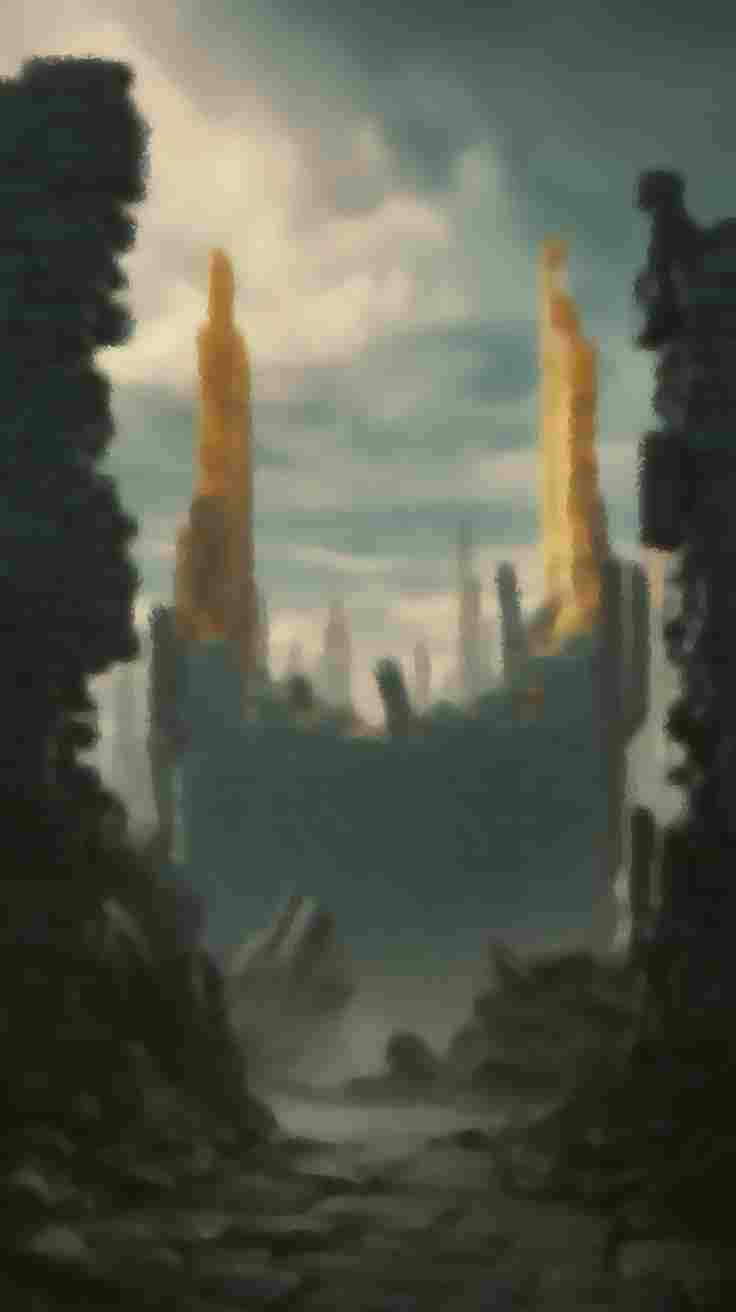
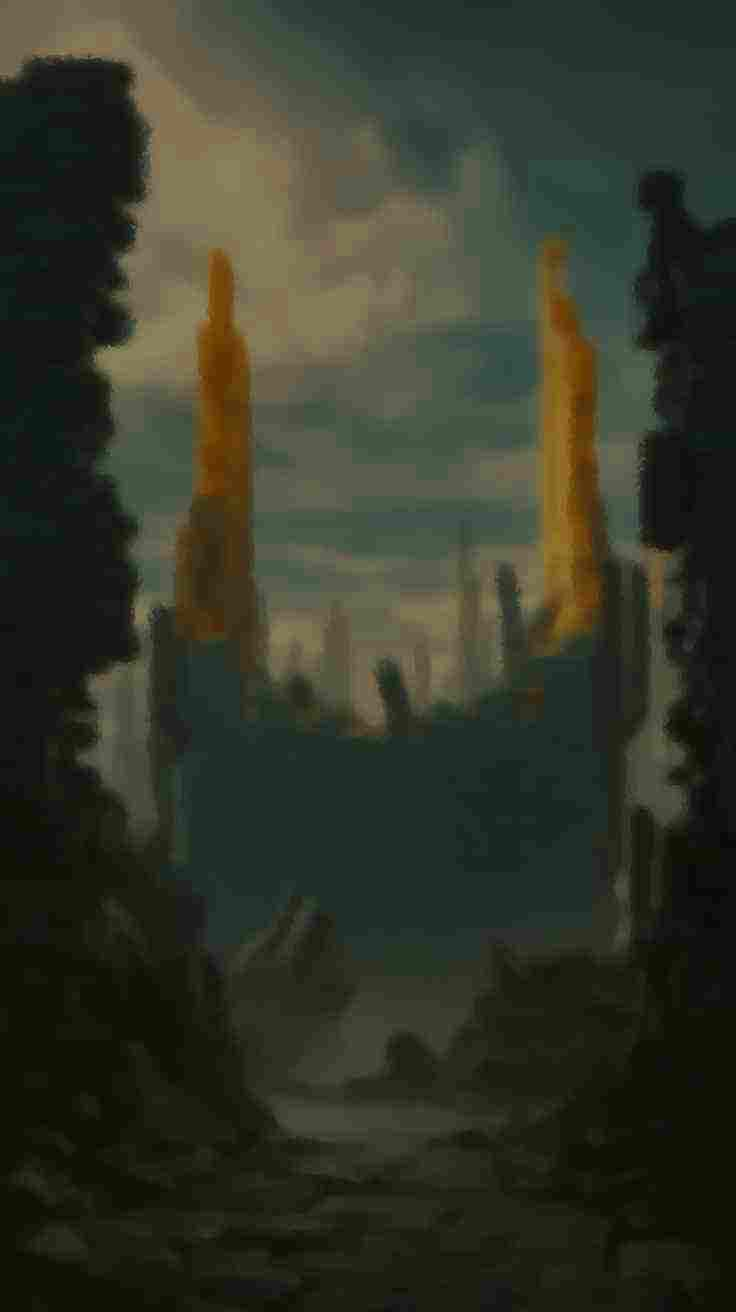
chore(release): bump version to 1.0.0+31

diff --git a/lib/screens/games/asgard_wall/main_screen.dart b/lib/screens/games/asgard_wall/main_screen.dart
@@ -707,9 +707,6 @@ class _GameScreenState extends State<GameScreen> {
           decoration: const BoxDecoration(
             image: DecorationImage(image: AssetImage('assets/images/backgrounds/landscape.jpg'), fit: BoxFit.cover),
           ),
-          child: Container(
-            color: Colors.black.withAlpha(128), // Overlay to darken the image
-          ),
         ), // The background is now at the bottom of the stack
         Scaffold(
           backgroundColor: Colors.transparent, // Make the scaffold transparent
